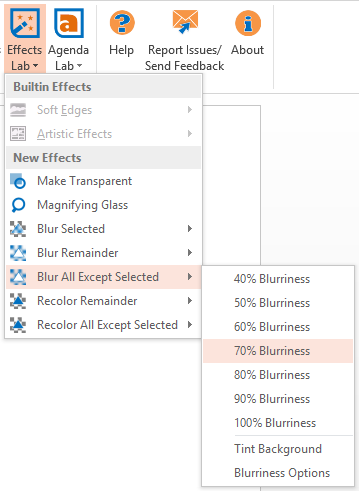
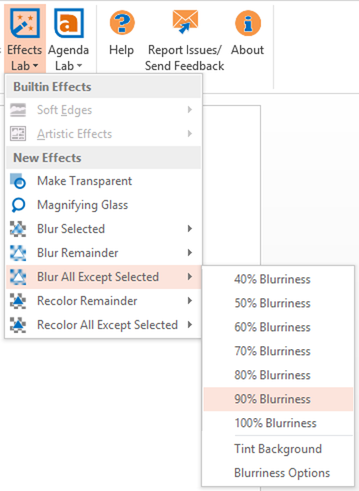
Update blur all except selected example

diff --git a/_docs/effects-lab.md b/_docs/effects-lab.md
@@ -124,16 +124,12 @@ Suppose that your wish to draw attention to the text box in this slide:
 
 <img class="box-shadow" src="{{ site.baseurl }}/img/docs/effects-lab-13.png">
 
-After selecting the text box, select `Blur All Except Selected` from the Effects Lab dropdown and choose the blurriness level to use - in our example here, we chose 70% Blurriness.
+After selecting the text box, select `Blur All Except Selected` from the Effects Lab dropdown and choose the blurriness level to use - in our example here, we chose 90% Blurriness.
 
 <img class="box-shadow" src="{{ site.baseurl }}/img/docs/effects-lab-12.png">
 
 Notice that everything in the slide will be blurred except for the selected shapes.
 
 <img class="box-shadow" src="{{ site.baseurl }}/img/docs/effects-lab-14.png">
-
-Here's another example where the text box does not have a background color.
-
-<img class="box-shadow" src="{{ site.baseurl }}/img/docs/effects-lab-22.png">
 
 The procedure and effect are similar for Recolor All Except Selected.
